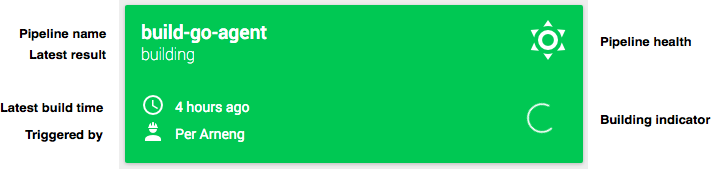
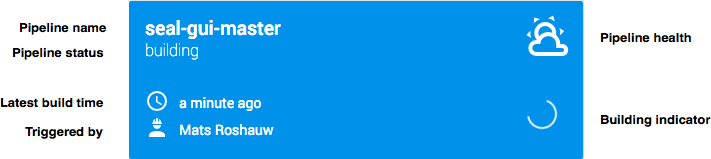
Blue pipeline card when building

diff --git a/index.html b/index.html
@@ -28,8 +28,9 @@
 <a id="pipeline-status" class="anchor" href="#pipeline-status" aria-hidden="true"><span aria-hidden="true" class="octicon octicon-link"></span></a>Pipeline status</h4>
 
 <ul>
-<li>Green - Last pipeline build passed</li>
-<li>Red - Last pipeline build failed</li>
+<li>Blue - Pipeline is building</li>
+<li>Green - Pipeline build passed</li>
+<li>Red - Pipeline has failed</li>
 <li>Yellow - Pipeline has been paused</li>
 </ul>
 
